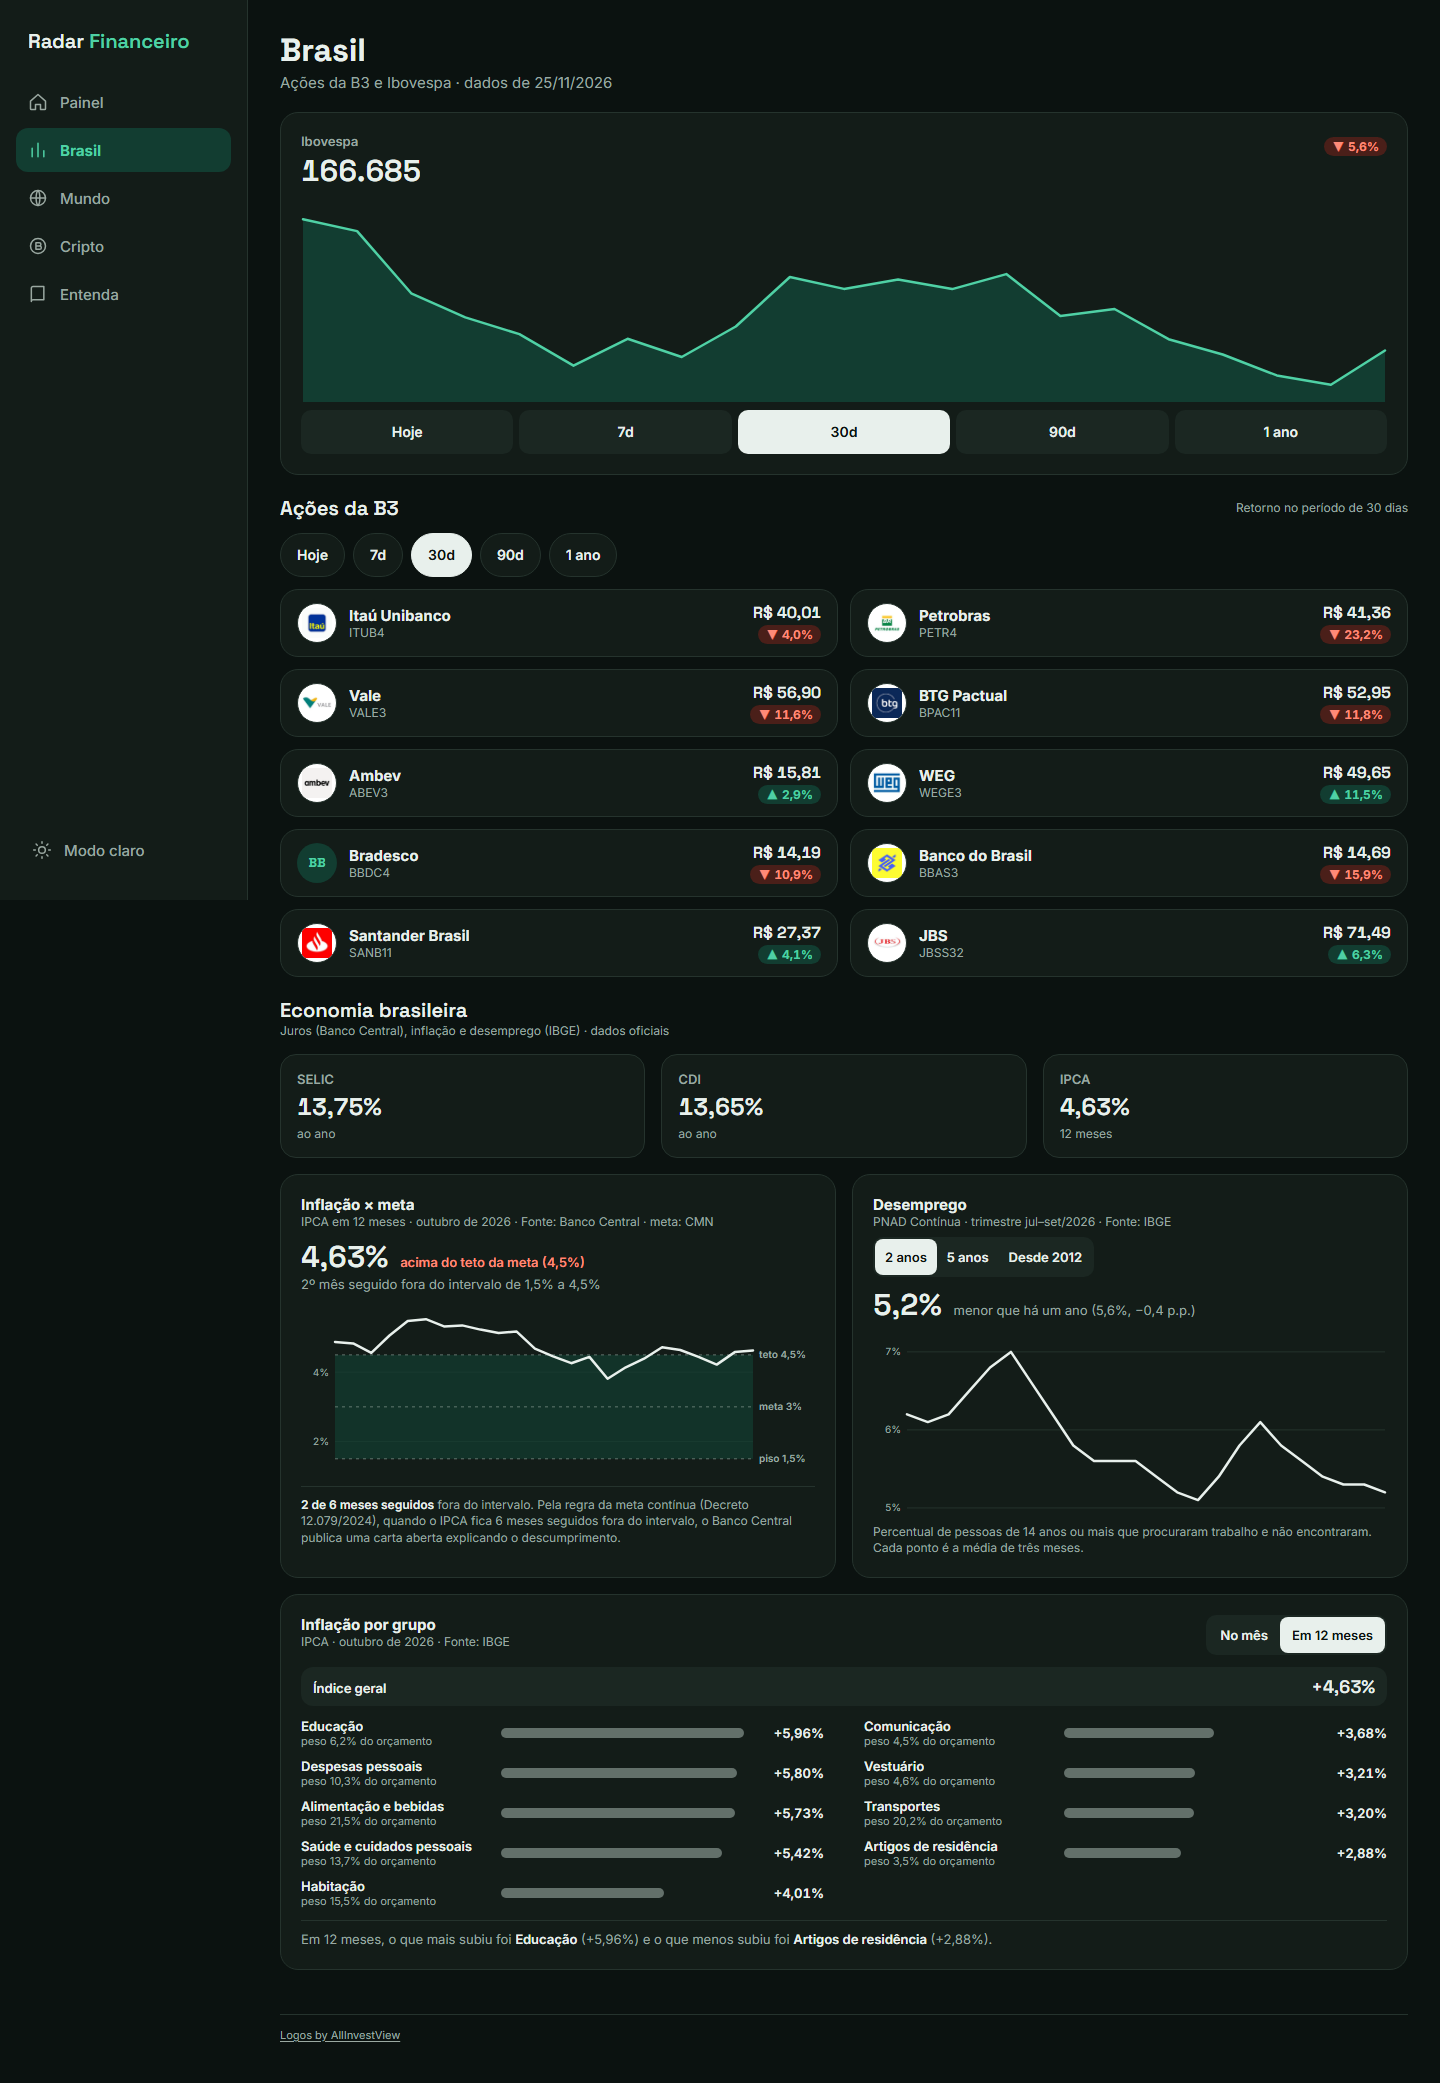
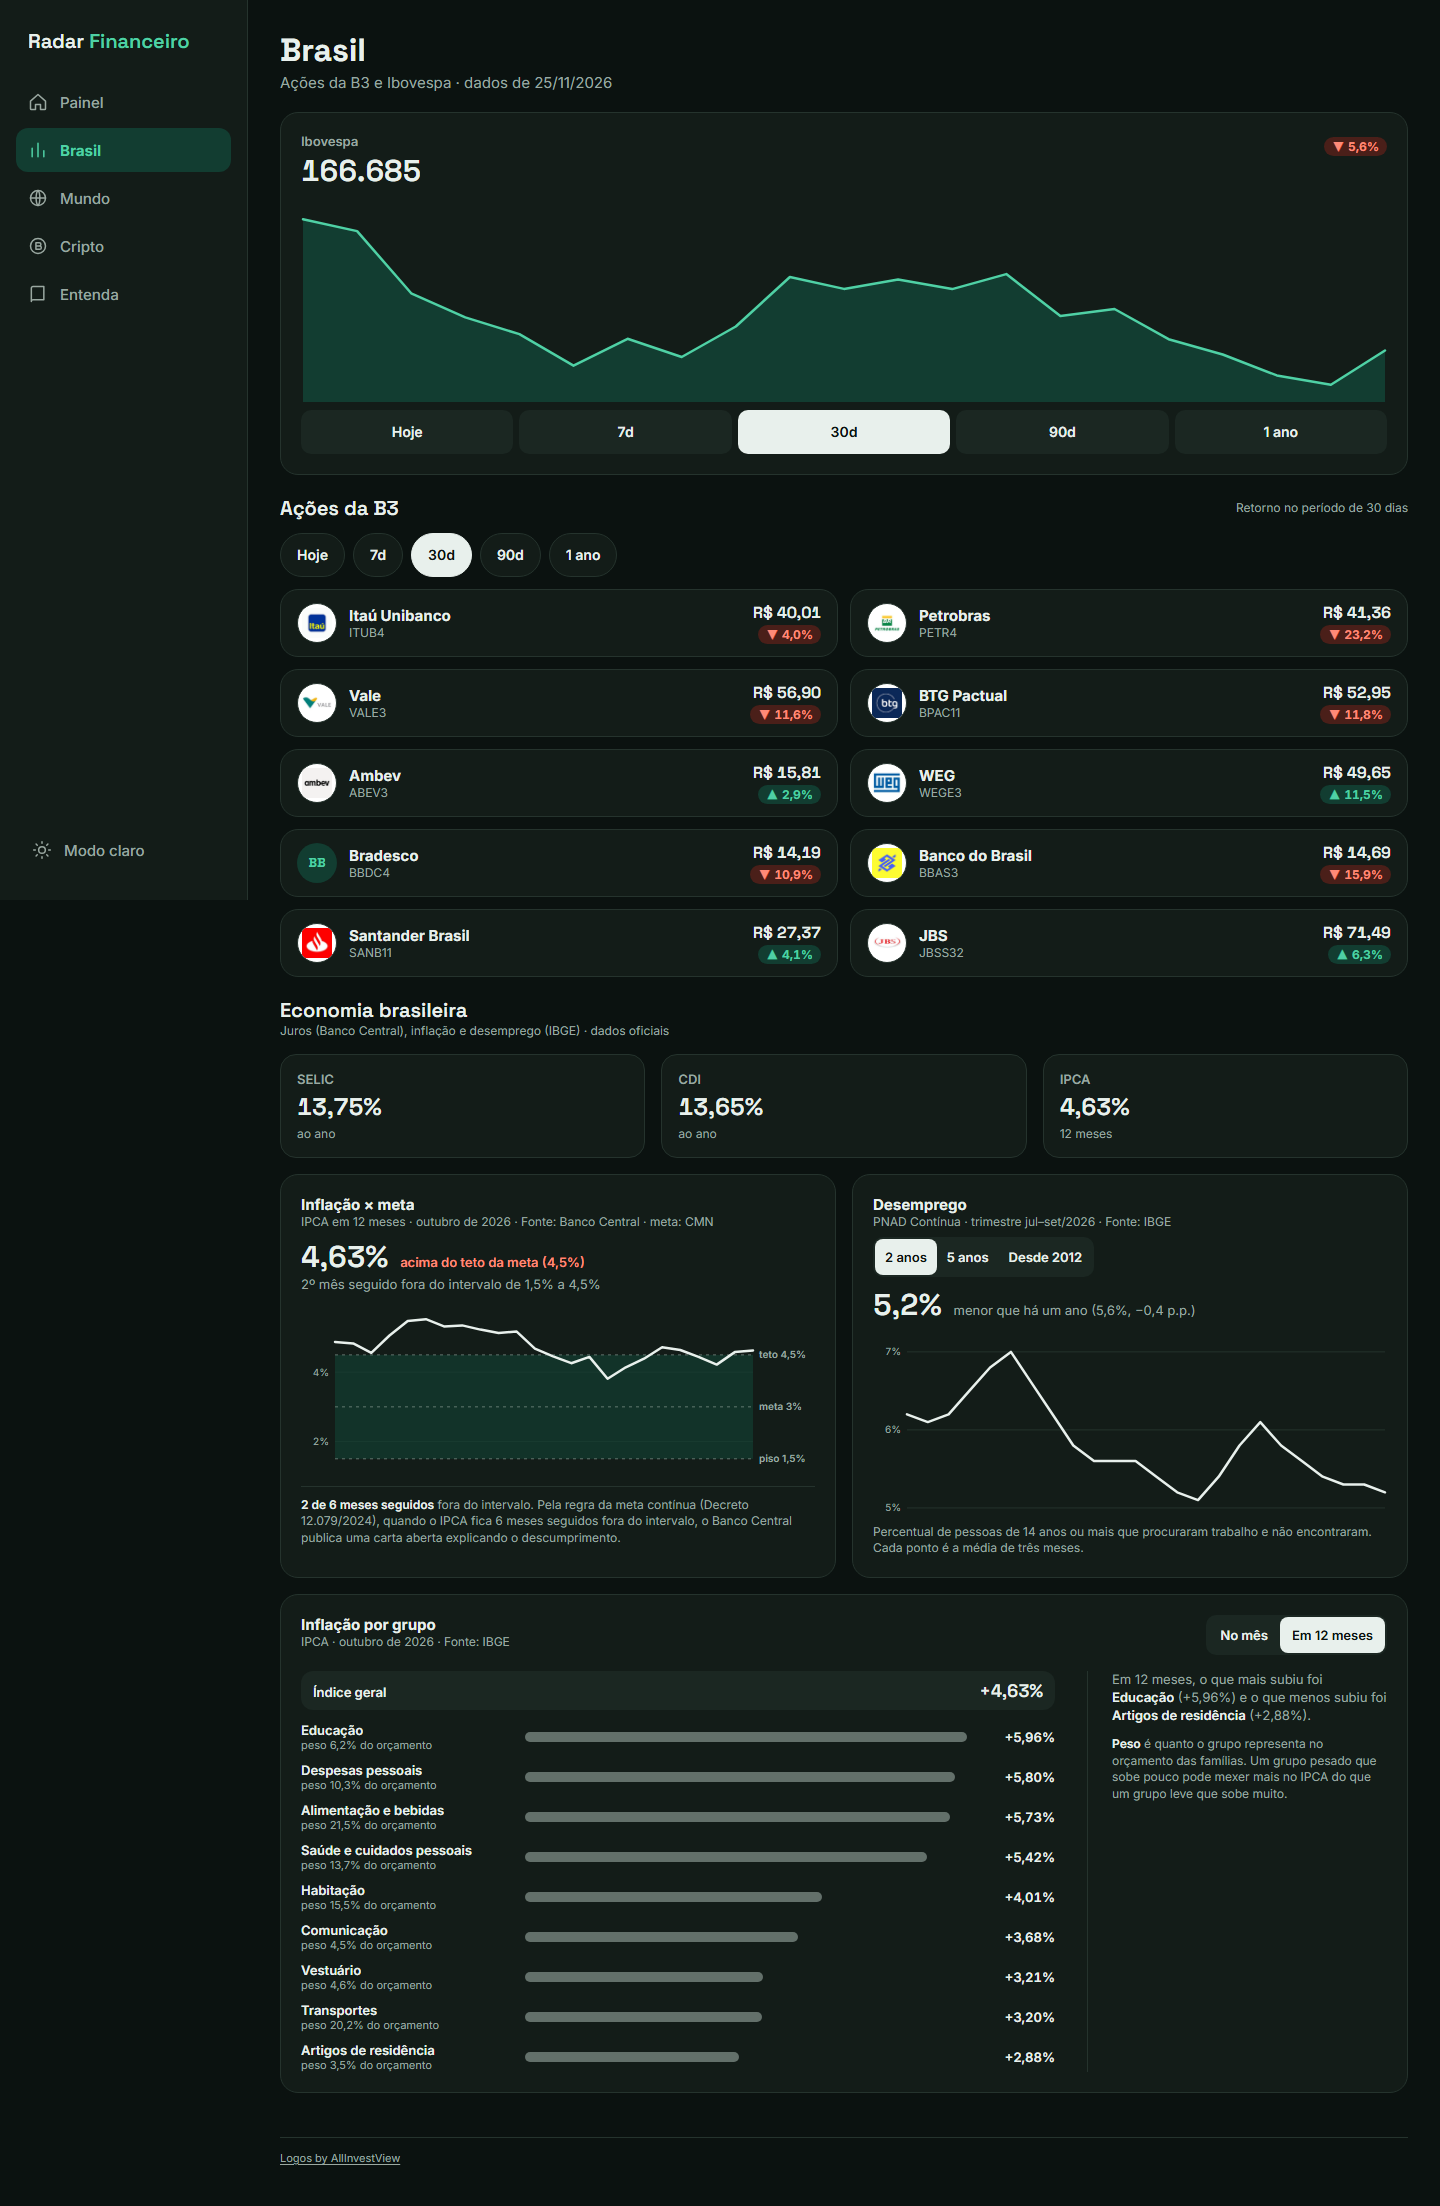
fix(web): inflação por grupo em uma coluna (ranking lido de cima para baixo)
Na web, o resumo e a explicação de 'peso' ficam ao lado da lista, em vez de
dividir o ranking em duas colunas ou esticar as barras até a borda.

diff --git a/web/components/IbgeView.tsx b/web/components/IbgeView.tsx
@@ -137,29 +137,41 @@ function InflationByGroup({ data, i, className = "" }: { data: Ibge; i: number; 
         </div>
       </div>
 
-      <div className="mt-3 flex items-baseline justify-between gap-3 rounded-xl bg-soft px-3 py-2">
-        <span className="text-[13px] font-semibold">Índice geral</span>
-        <span className="num font-display text-[18px] font-semibold">{formatSignedPct(general[mode], 2)}</span>
+      {/* Uma coluna só: a lista é um ranking e deve ser lida de cima para baixo.
+          Na web, o resumo fica ao lado da lista em vez de esticar as barras até a borda. */}
+      <div className="lg:mt-1 lg:grid lg:grid-cols-[minmax(0,1fr)_minmax(220px,300px)] lg:gap-8">
+        <div className="min-w-0">
+          <div className="mt-3 flex items-baseline justify-between gap-3 rounded-xl bg-soft px-3 py-2">
+            <span className="text-[13px] font-semibold">Índice geral</span>
+            <span className="num font-display text-[18px] font-semibold">{formatSignedPct(general[mode], 2)}</span>
+          </div>
+
+          <ul className="mt-3 flex flex-col gap-2.5" aria-label={`Variação por grupo, ${mode === "monthly" ? "no mês" : "em 12 meses"}`}>
+            {sorted.map((g) => (
+              // Celular: nome e valor na 1ª linha, barra com a largura toda embaixo. Web: 3 colunas.
+              <li
+                key={g.code}
+                className="grid grid-cols-[minmax(0,1fr)_auto] items-center gap-x-2 gap-y-1 lg:grid-cols-[minmax(0,13rem)_1fr_4.5rem] lg:gap-x-4 lg:gap-y-0"
+              >
+                <span className="col-start-1 row-start-1 min-w-0">
+                  <span className="block truncate text-[13px] font-semibold">{g.name}</span>
+                  <span className="block text-[11px] text-muted">peso {formatPct(g.weight, 1)} do orçamento</span>
+                </span>
+                <span className="col-span-2 row-start-2 flex lg:col-span-1 lg:col-start-2 lg:row-start-1">{bar(g[mode])}</span>
+                <span className="num col-start-2 row-start-1 text-right text-[13px] font-semibold lg:col-start-3">{formatSignedPct(g[mode], 2)}</span>
+              </li>
+            ))}
+          </ul>
+        </div>
+
+        <aside className="mt-3 border-t border-line pt-2.5 text-[13px] leading-snug text-muted lg:mt-3 lg:border-t-0 lg:border-l lg:pt-0 lg:pl-6">
+          <p>{sentence}</p>
+          <p className="mt-3 hidden text-[12px] lg:block">
+            <strong className="font-semibold text-fg">Peso</strong> é quanto o grupo representa no orçamento das famílias. Um
+            grupo pesado que sobe pouco pode mexer mais no IPCA do que um grupo leve que sobe muito.
+          </p>
+        </aside>
       </div>
-
-      <ul className="mt-3 flex flex-col gap-2.5 lg:grid lg:grid-flow-col lg:grid-cols-2 lg:grid-rows-5 lg:gap-x-10" aria-label={`Variação por grupo, ${mode === "monthly" ? "no mês" : "em 12 meses"}`}>
-        {sorted.map((g) => (
-          // Celular: nome e valor na 1ª linha, barra com a largura toda embaixo. Web: 3 colunas.
-          <li
-            key={g.code}
-            className="grid grid-cols-[minmax(0,1fr)_auto] items-center gap-x-2 gap-y-1 lg:grid-cols-[minmax(0,12rem)_1fr_4.5rem] lg:gap-y-0"
-          >
-            <span className="col-start-1 row-start-1 min-w-0">
-              <span className="block truncate text-[13px] font-semibold">{g.name}</span>
-              <span className="block text-[11px] text-muted">peso {formatPct(g.weight, 1)} do orçamento</span>
-            </span>
-            <span className="col-span-2 row-start-2 flex lg:col-span-1 lg:col-start-2 lg:row-start-1">{bar(g[mode])}</span>
-            <span className="num col-start-2 row-start-1 text-right text-[13px] font-semibold lg:col-start-3">{formatSignedPct(g[mode], 2)}</span>
-          </li>
-        ))}
-      </ul>
-
-      <p className="mt-3 border-t border-line pt-2.5 text-[13px] leading-snug text-muted">{sentence}</p>
     </Card>
   );
 }
